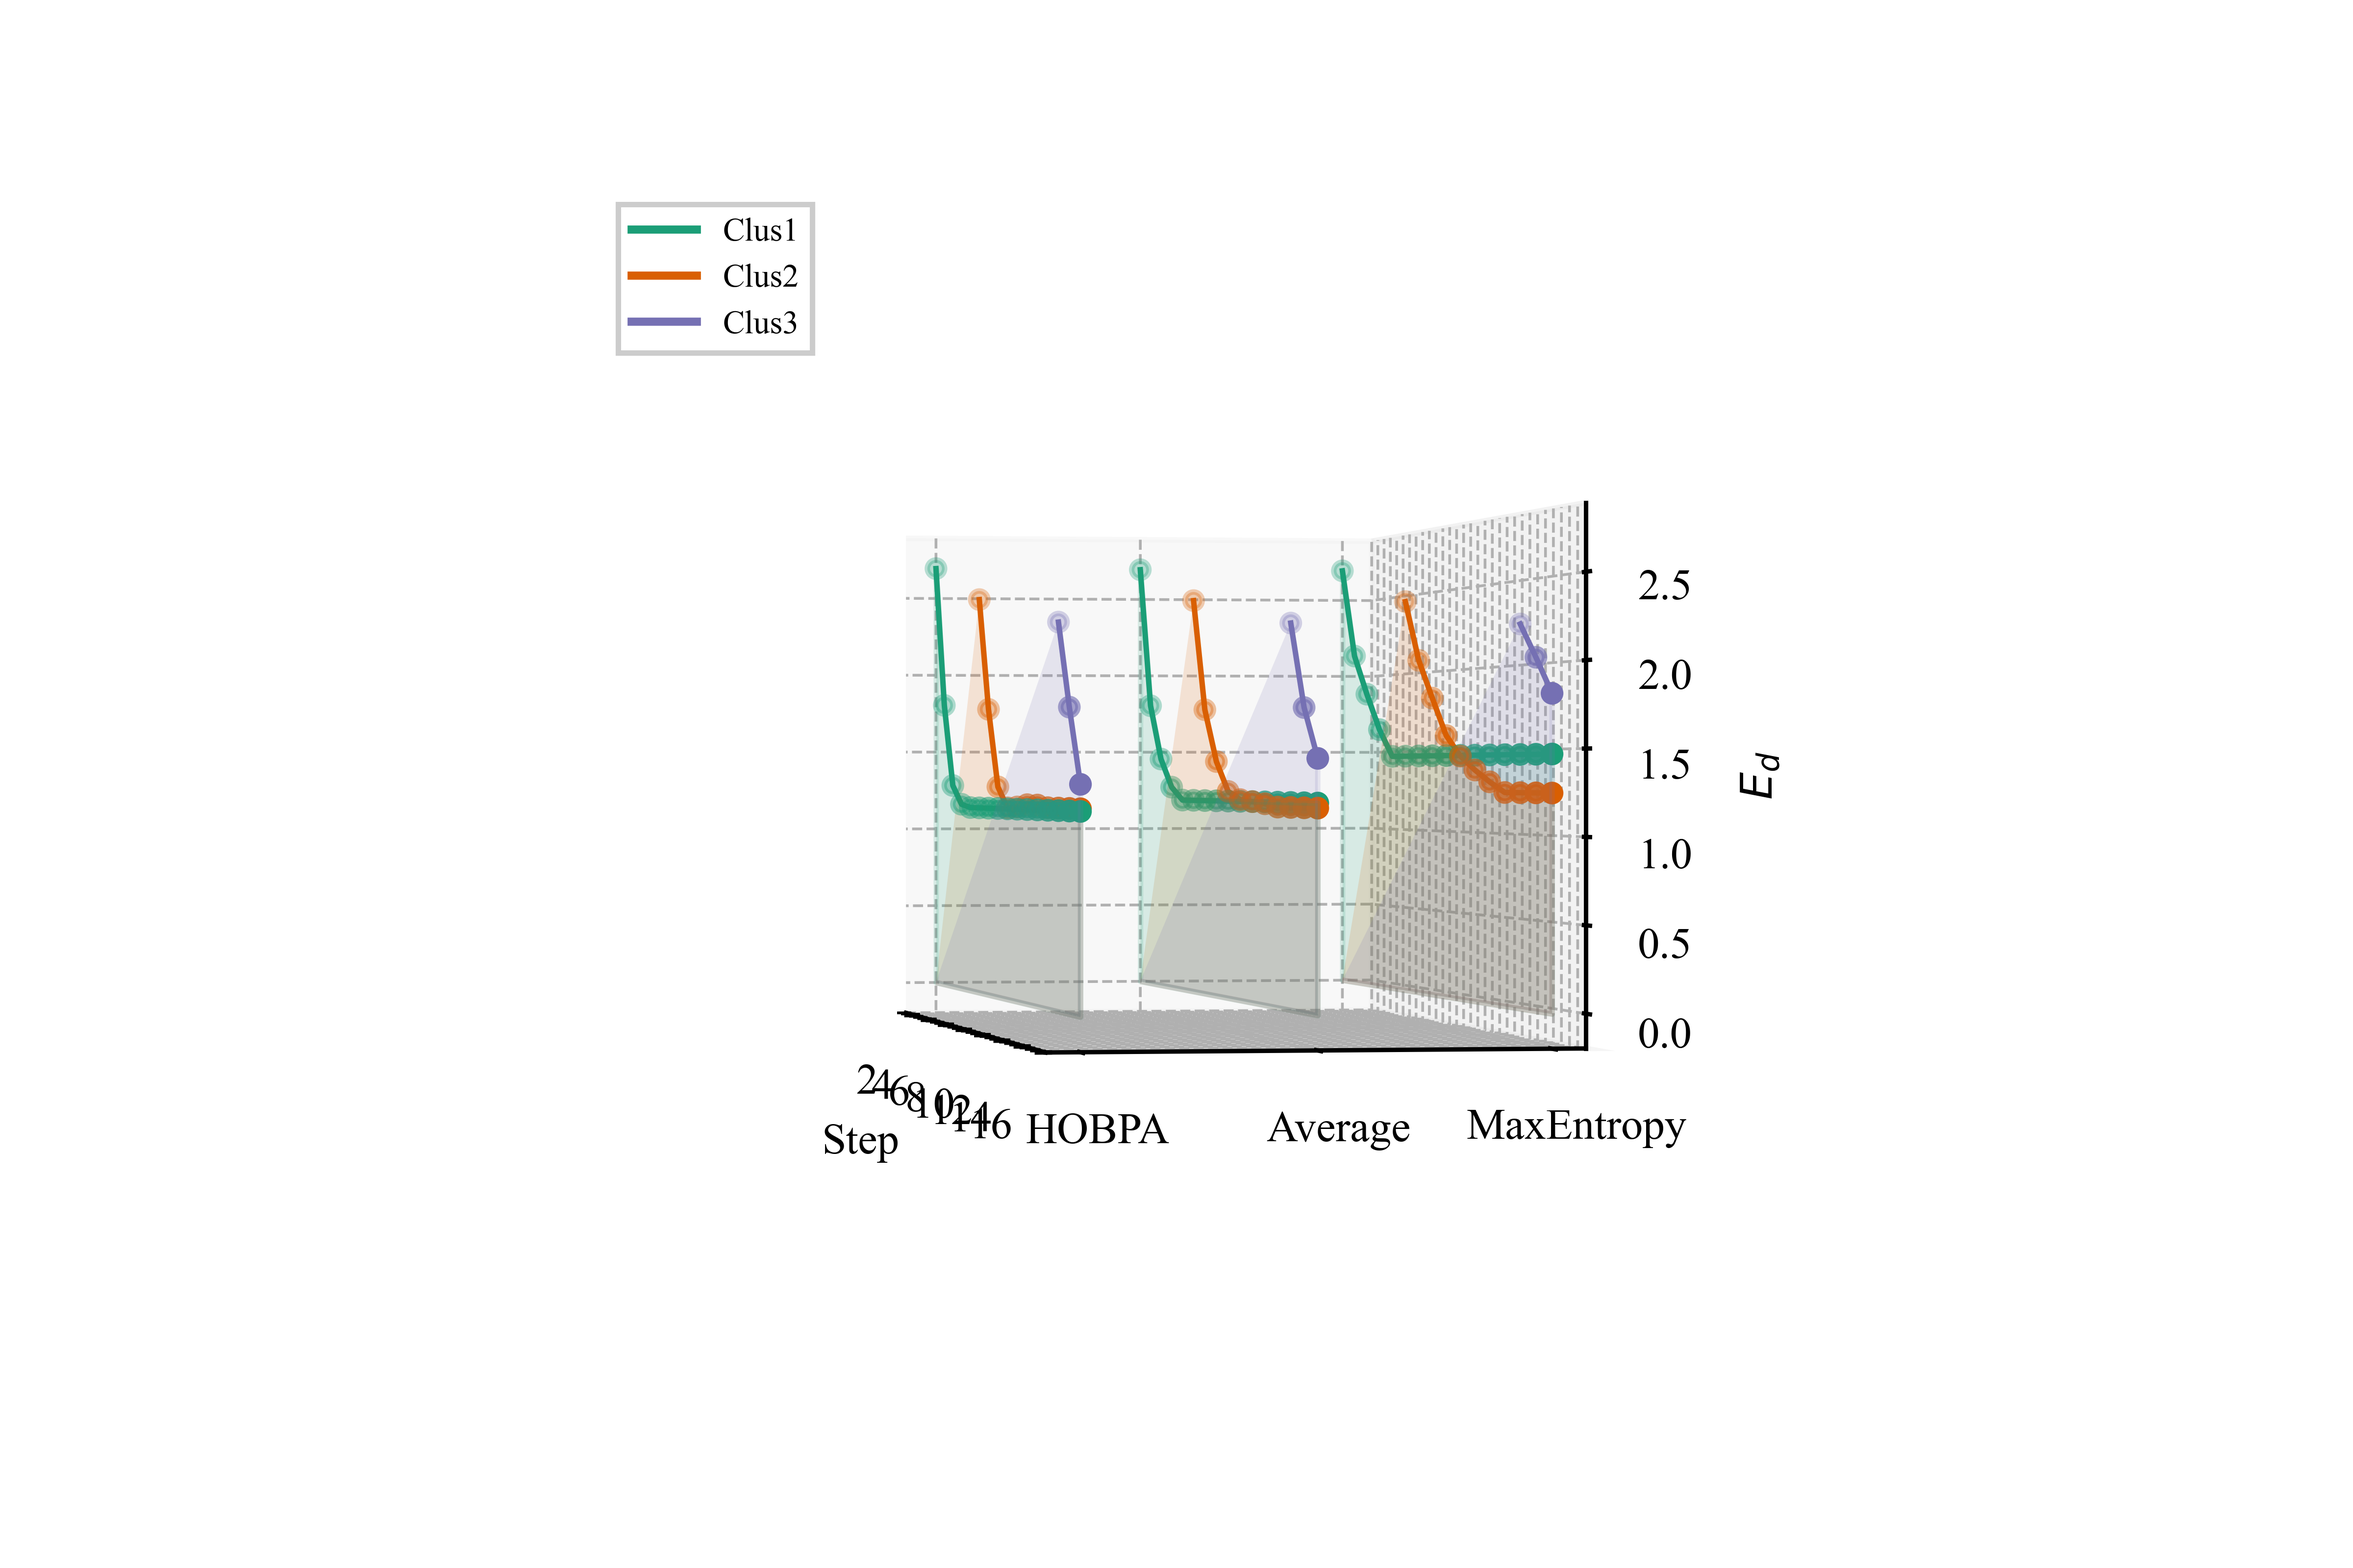
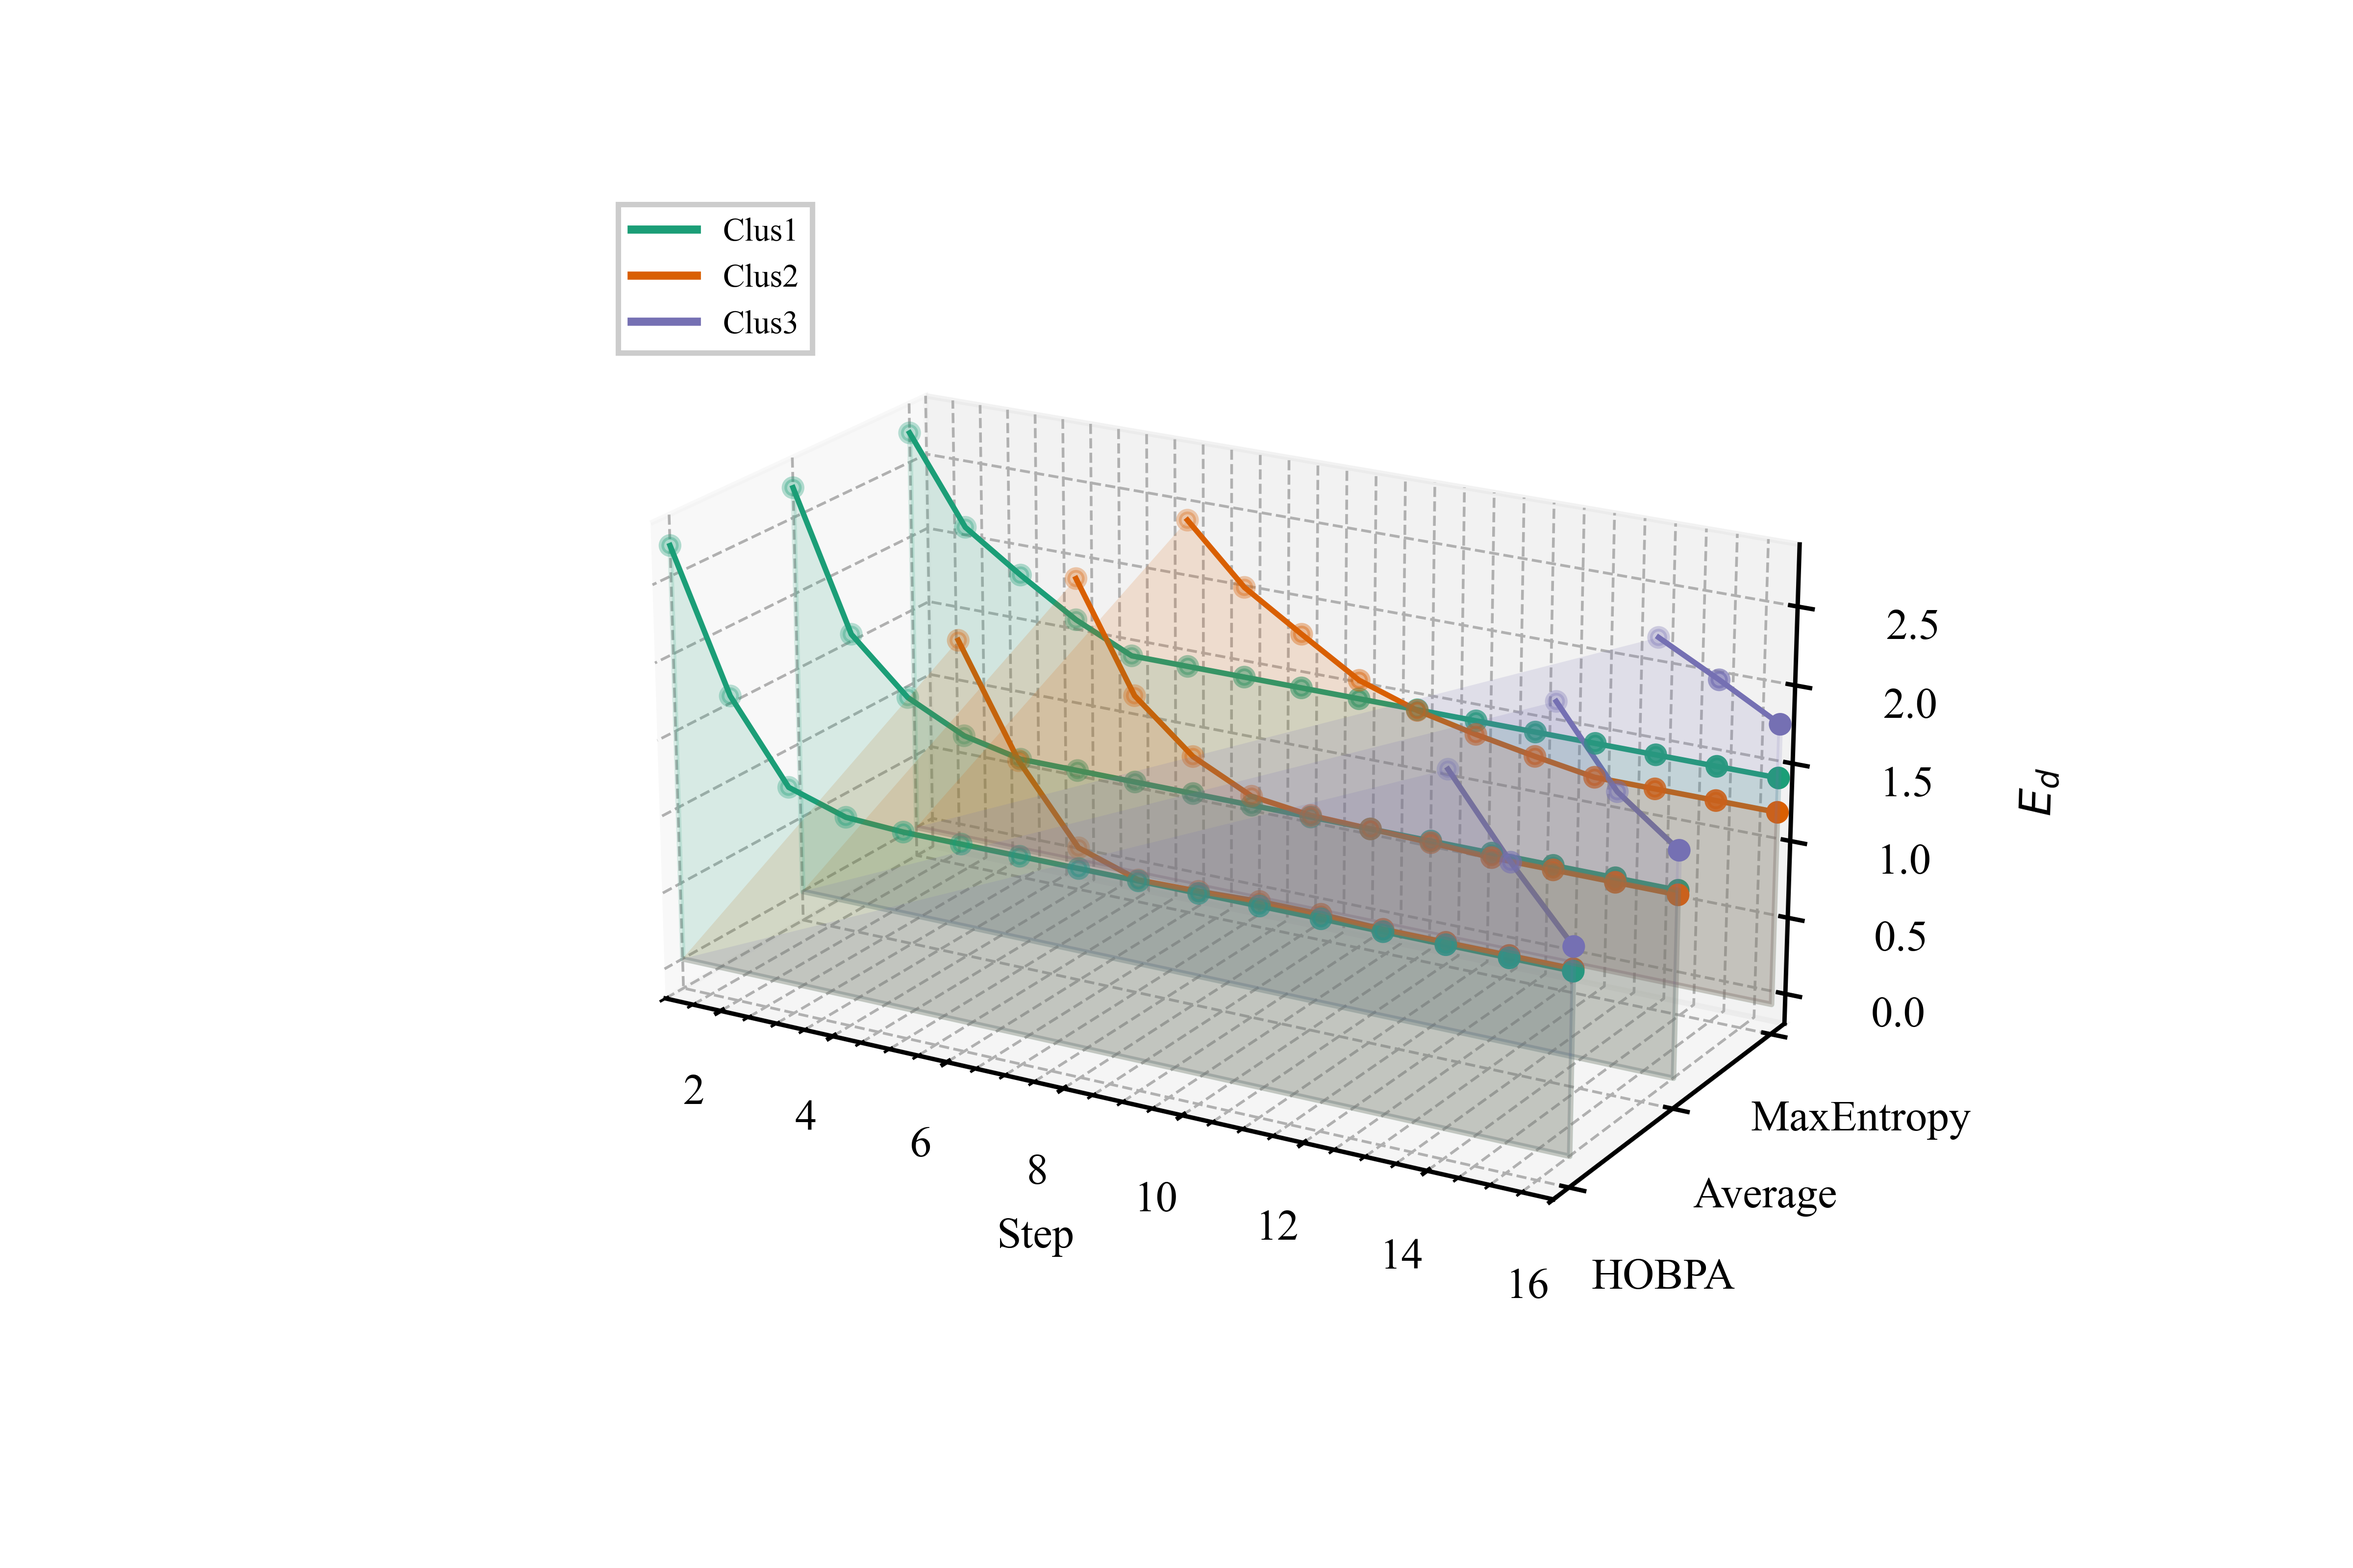
Visualize Entropy change

diff --git a/figures/waterfall_plot_deng_entropy.py b/figures/waterfall_plot_deng_entropy.py
@@ -1,0 +1,172 @@
+# -*- coding: utf-8 -*-
+"""分形算子下簇心 Deng 熵的瀑布图示例
+=======================================
+本脚本以 ``waterfall_plot.py`` 为蓝本，读取 Example 3.7 数据集，
+动态地将 BBA 加入 ``MultiClusters`` 中，并分别在 HOBPA、Average
+和 MaxEntropy 三种分形算子下计算簇心 Deng 熵。最终以三维瀑布图
+展示簇心 Deng 熵随 BBA 数量增加的变化过程。
+"""
+
+from __future__ import annotations
+
+import contextlib
+import os
+import sys
+from io import StringIO
+from typing import Dict, List
+
+import matplotlib.pyplot as plt
+import numpy as np
+import pandas as pd
+from mpl_toolkits.mplot3d.art3d import Poly3DCollection
+
+BASE_DIR = os.path.abspath(os.path.join(os.path.dirname(__file__), os.pardir))
+if BASE_DIR not in sys.path:
+    sys.path.insert(0, BASE_DIR)
+
+# 依赖本项目内现成工具函数 / 模块
+from utility.plot_style import apply_style
+from utility.formula_labels import LABEL_DENG_ENTROPY
+from utility.plot_utils import savefig
+
+apply_style()
+
+from cluster.multi_clusters import MultiClusters  # type: ignore
+from entropy.deng_entropy import deng_entropy
+from fractal.fractal_hobpa import higher_order_bba as hobpa_fractal
+from fractal.fractal_average import higher_order_bba as average_fractal
+from fractal.fractal_max_entropy import higher_order_bba as maxent_fractal
+from mean.mean_bba import compute_avg_bba
+from utility.io import load_bbas  # type: ignore
+
+EntropyHistory = Dict[str, Dict[str, List[float]]]
+
+_fractal_funcs = {
+    "HOBPA": hobpa_fractal,
+    "Average": average_fractal,
+    "MaxEntropy": maxent_fractal,
+}
+
+
+def _centroid_entropy(clus, func):
+    """根据指定分形函数计算簇心 Deng 熵。"""
+    # 收集簇中所有 BBA
+    bbas = [b for _, b in clus.get_bbas()]
+    if not bbas:
+        return float("nan")
+    # 分形函数需要知道当前最高阶数 h
+    h = max(len(bbas) - 1, 0)
+    # 对每个 BBA 应用分形算子，得到高阶 BBA
+    fbba_list = [func(b, h) for b in bbas]
+    # 根据分形后的 BBA 计算平均 BBA 作为簇心
+    centroid = compute_avg_bba(fbba_list)
+    # 返回簇心的 Deng 熵
+    return float(deng_entropy(centroid))
+
+
+def _record_entropies(step: int, mc: MultiClusters, history: EntropyHistory) -> None:
+    """记录当前簇心在不同分形下的 Deng 熵。"""
+    clusters = list(mc._clusters.values())
+    # 遍历每个簇，计算其在各分形算子下的簇心 Deng 熵
+    for clus in clusters:
+        for name, func in _fractal_funcs.items():
+            # 对应簇在此前若未出现，需要填补前面步长的 NaN
+            history.setdefault(name, {}).setdefault(clus.name, [float("nan")] * (step - 1))
+            ent = _centroid_entropy(clus, func)
+            history[name][clus.name].append(ent)
+    # 若某簇在本轮已经消失，仍需补齐记录长度
+    for key in history:
+        for cname, vals in history[key].items():
+            if len(vals) < step:
+                vals.append(float("nan"))
+
+
+def _plot_history(history: EntropyHistory, n_steps: int, out_path: str) -> None:
+    """根据记录绘制三维瀑布图"""
+    alg_names = list(_fractal_funcs.keys())
+    y_pos = np.arange(len(alg_names))
+    # 收集所有出现过的簇名称
+    all_names: set[str] = set()
+    for key in history:
+        all_names.update(history[key].keys())
+    cluster_names = sorted(all_names)
+
+    colors = plt.rcParams['axes.prop_cycle'].by_key()['color']
+
+    # constrained_layout 能更好地处理三维图的边距问题，避免 ``tight_layout``
+    # 带来的无法收敛警告
+    fig = plt.figure(figsize=(6, 4), constrained_layout=True)
+    ax = fig.add_subplot(111, projection='3d')
+    ax.set_box_aspect((2, 1, 1))
+
+    ax.set_xlabel('Step')
+    ax.set_ylabel('')
+    ax.set_zlabel(LABEL_DENG_ENTROPY)
+
+    ax.set_xlim(1, n_steps)
+    ax.set_yticks(y_pos)
+    ax.set_yticklabels(alg_names)
+
+    # 逐簇绘制瀑布曲线
+    for idx, cname in enumerate(cluster_names):
+        color = colors[idx % len(colors)]
+        for a_idx, alg in enumerate(alg_names):
+            # 获取指定算法下的熵序列
+            vals = history.get(alg, {}).get(cname, [])
+            x_vals = np.arange(1, len(vals) + 1)
+            y_val = y_pos[a_idx]
+            y_points = np.full_like(x_vals, y_val)
+            ax.plot(x_vals, y_points, vals, color=color, linewidth=1)
+            ax.scatter(x_vals, y_points, vals, color=color, s=10)
+            # 封闭曲面以形成瀑布效果
+            top = list(zip(x_vals, y_points, vals))
+            bottom = list(zip(x_vals, y_points, np.zeros_like(vals)))
+            poly = Poly3DCollection([top + bottom[::-1]], alpha=0.15)
+            poly.set_color(color)
+            ax.add_collection3d(poly)
+
+    # 构造代理句柄显示簇名称
+    legend_proxies = [
+        plt.Line2D([0], [0], color=colors[i % len(colors)], lw=1.5)
+        for i in range(len(cluster_names))
+    ]
+    ax.legend(legend_proxies, cluster_names, loc="upper left", bbox_to_anchor=(0, 1.0))
+    # 调整视角以获得更好的瀑布效果
+    ax.view_init(elev=20, azim=-60)
+    savefig(fig, out_path)
+
+
+if __name__ == '__main__':  # pragma: no cover
+    # 默认使用的示例数据集，可根据需要修改
+    example_name = 'Example_3_7.csv'
+    base_dir = os.path.abspath(os.path.join(os.path.dirname(__file__), os.pardir))
+    default_csv = os.path.join(base_dir, 'data', 'examples', example_name)
+    if not os.path.isfile(default_csv):
+        print(f'默认 CSV 文件不存在: {default_csv}')
+        sys.exit(1)
+
+    # 读取 CSV 并逐条加入 ``MultiClusters``
+    df = pd.read_csv(default_csv)
+    bbas, _ = load_bbas(df)
+    mc = MultiClusters()
+    history: EntropyHistory = {}
+    step = 0
+    for name, bba in bbas:
+        step += 1
+        # 屏蔽 ``add_bba_by_reward`` 的控制台输出
+        with contextlib.redirect_stdout(StringIO()):
+            mc.add_bba_by_reward(name, bba)
+        _record_entropies(step, mc, history)
+
+    # 输出目录，统一位于 ``experiments_result``
+    res_dir = os.path.normpath(os.path.join(base_dir, 'experiments_result'))
+    os.makedirs(res_dir, exist_ok=True)
+
+    dataset = os.path.splitext(os.path.basename(example_name))[0]
+    suffix = dataset.lower()
+    if suffix.startswith('example_'):
+        suffix = suffix[len('example_'):]
+    out_path = os.path.join(res_dir, f'waterfall_deng_entropy_{suffix}.png')
+
+    _plot_history(history, step, out_path)
+    print(f'Figure saved to: {out_path}')

diff --git a/utility/plot_utils.py b/utility/plot_utils.py
@@ -3,6 +3,8 @@
 
 from __future__ import annotations
 
+import warnings
+
 import matplotlib.pyplot as plt
 import numpy as np
 
@@ -43,7 +45,19 @@ def savefig(fig_or_path: str | plt.Figure, path: str | None = None, *, show: boo
     else:
         fig = plt.gcf()
         out = fig_or_path
-    fig.tight_layout()
+    # 某些情况下三维坐标轴无法很好地应用 tight_layout，因此这里忽略相关警告以避免屏幕输出过多提示。
+    with warnings.catch_warnings():
+        warnings.filterwarnings(
+            "ignore",
+            message=".*Tight layout not applied.*",
+            category=UserWarning,
+        )
+        warnings.filterwarnings(
+            "ignore",
+            message=".*figure layout has changed.*",
+            category=UserWarning,
+        )
+        fig.tight_layout()
     if out is not None:
         fig.savefig(out)
     else:
